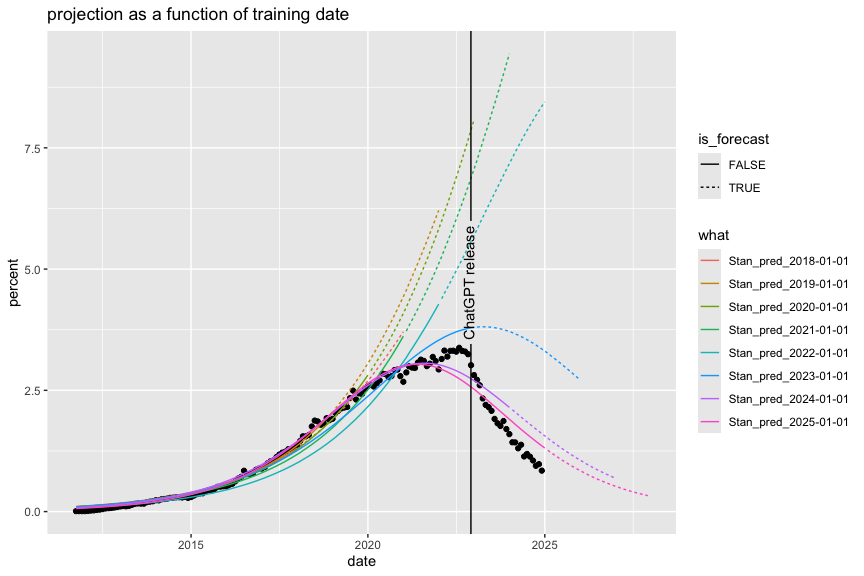
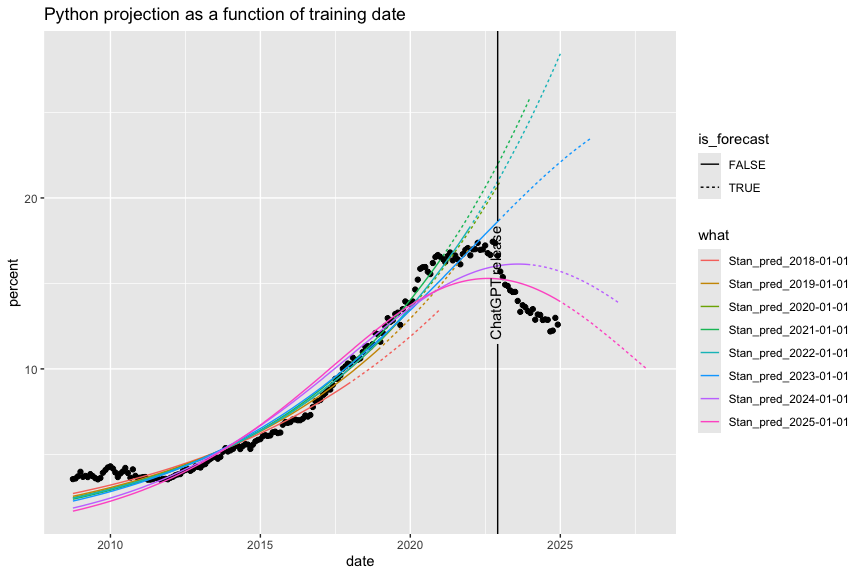
finish analysis

diff --git a/TimeSeries/Bass_model/Bass_Stan.md b/TimeSeries/Bass_model/Bass_Stan.md
@@ -41,16 +41,12 @@ converted with
 
 ``` r
 # read data
-d_all <- read.csv('tag_trends_2024.csv', stringsAsFactors = FALSE, strip.white = TRUE)
+d_all <- read.csv('tag_trends_Pyton.csv', stringsAsFactors = FALSE, strip.white = TRUE)
 d_all['date'] = as.Date(d_all[['date']])
-# get label order
-d_all['tag'] = factor(
-  d_all[['tag']], 
-  levels = c('r', 'pandas', 'matlab', 'tensorflow'))
 ```
 
 ``` r
-tag <- 'pandas'
+tag <- 'Python'
 d_match <- d_all[d_all$tag == tag, c('date', 'percent', 'tag')]
 n_pad <- 36
 new_dates <- seq(d_match$date[nrow(d_match)], by='1 month', length.out = n_pad + 1)[2:(n_pad + 1)]
@@ -127,37 +123,37 @@ d_predict <- lapply(
   fit_pred_given_train_date)
 ```
 
-    ## Warning: There were 3446 divergent transitions after warmup. See
+    ## Warning: There were 3979 divergent transitions after warmup. See
     ## https://mc-stan.org/misc/warnings.html#divergent-transitions-after-warmup
     ## to find out why this is a problem and how to eliminate them.
 
     ## Warning: Examine the pairs() plot to diagnose sampling problems
 
-    ## Warning: There were 3179 divergent transitions after warmup. See
+    ## Warning: There were 4375 divergent transitions after warmup. See
     ## https://mc-stan.org/misc/warnings.html#divergent-transitions-after-warmup
     ## to find out why this is a problem and how to eliminate them.
 
     ## Warning: Examine the pairs() plot to diagnose sampling problems
 
-    ## Warning: There were 2975 divergent transitions after warmup. See
+    ## Warning: There were 4485 divergent transitions after warmup. See
     ## https://mc-stan.org/misc/warnings.html#divergent-transitions-after-warmup
     ## to find out why this is a problem and how to eliminate them.
 
     ## Warning: Examine the pairs() plot to diagnose sampling problems
 
-    ## Warning: There were 2004 divergent transitions after warmup. See
+    ## Warning: There were 4553 divergent transitions after warmup. See
     ## https://mc-stan.org/misc/warnings.html#divergent-transitions-after-warmup
     ## to find out why this is a problem and how to eliminate them.
 
     ## Warning: Examine the pairs() plot to diagnose sampling problems
 
-    ## Warning: There were 521 divergent transitions after warmup. See
+    ## Warning: There were 3652 divergent transitions after warmup. See
     ## https://mc-stan.org/misc/warnings.html#divergent-transitions-after-warmup
     ## to find out why this is a problem and how to eliminate them.
 
     ## Warning: Examine the pairs() plot to diagnose sampling problems
 
-    ## Warning: There were 11 divergent transitions after warmup. See
+    ## Warning: There were 2 divergent transitions after warmup. See
     ## https://mc-stan.org/misc/warnings.html#divergent-transitions-after-warmup
     ## to find out why this is a problem and how to eliminate them.
 
@@ -168,7 +164,9 @@ d_predict <- do.call(rbind, d_predict)
 ```
 
 ``` r
-saveRDS(list(d_plot = d_plot, d_predict = d_predict), "Pandas_predictions_Bass.RDS")
+saveRDS(
+  list(d_plot = d_plot, d_predict = d_predict), 
+  paste0(tag, "_predictions_Bass.RDS"))
 ```
 
 ``` r
@@ -184,7 +182,7 @@ ggplot(mapping = aes(x = date, y = percent)) +
       ),
       mapping = aes(xintercept = date, label = label),
     ) + 
-  ggtitle("projection as a function of training date")
+  ggtitle(paste0(tag, " projection as a function of training date"))
 ```
 
 ![](Bass_Stan_files/figure-gfm/unnamed-chunk-9-1.png)<!-- -->

diff --git a/TimeSeries/Bass_model/Plot_Bass.md b/TimeSeries/Bass_model/Plot_Bass.md
@@ -19,10 +19,11 @@ knitr::opts_chunk$set(fig.height = 6, fig.width = 9)
 ``` r
 unpack[
   d_plot = d_plot, 
-  d_predict = d_predict] := readRDS("Pandas_predictions_Bass.RDS")
+  d_predict = d_predict] := readRDS("Python_predictions_Bass.RDS")
 ```
 
 ``` r
+tag = d_plot$tag[[1]]
 d_predict[["what"]] <- paste0("model using data before ", gsub("Stan_pred_", "", d_predict$what, fixed = TRUE))
 ```
 
@@ -40,7 +41,7 @@ ggplot(mapping = aes(x = date, y = percent)) +
       mapping = aes(xintercept = date, label = label),
     ) + 
   ylab("% of Stack Overflow questions that month") + 
-  ggtitle("projection of Pandas questions on Stack Overflow as a function of training date")
+  ggtitle(paste0("projection of ", tag, " questions on Stack Overflow as a function of training date"))
 ```
 
 ![](Plot_Bass_files/figure-gfm/unnamed-chunk-4-1.png)<!-- -->
